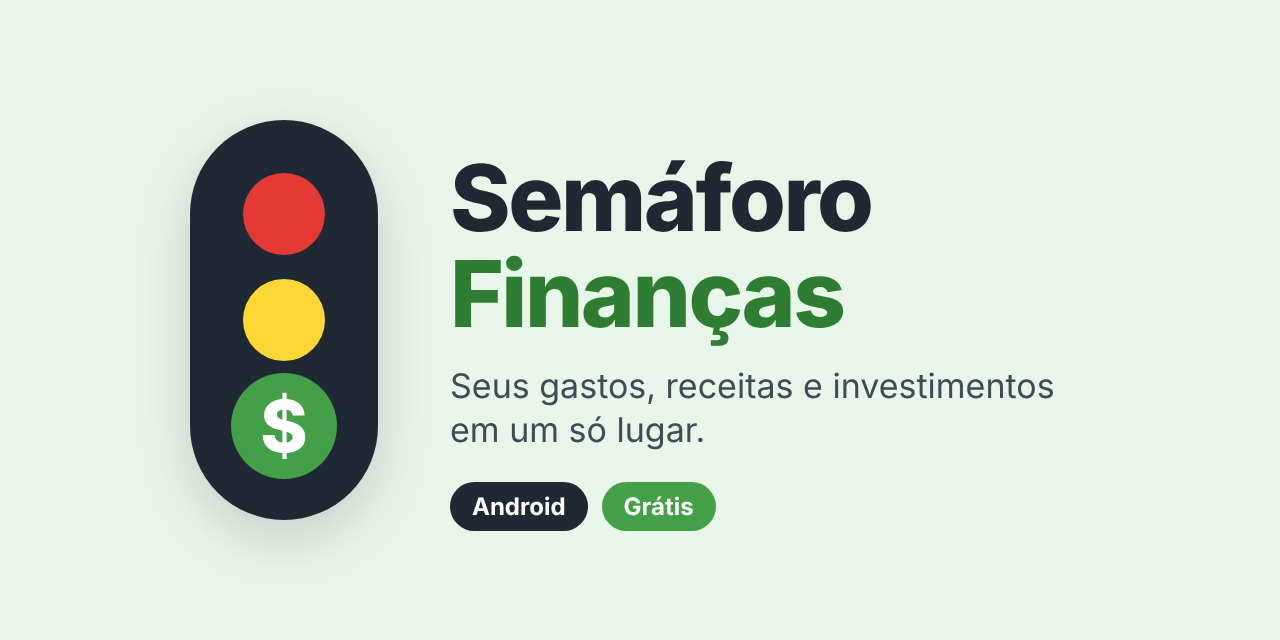
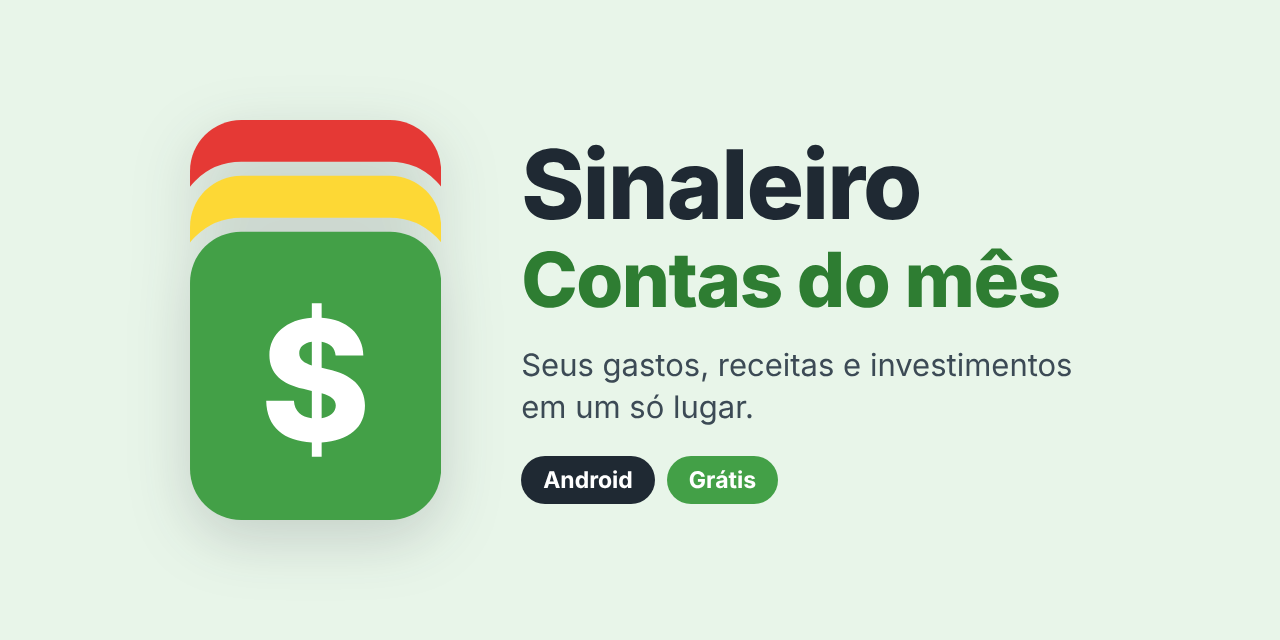
docs: rebrand to Sinaleiro

Changed region(s): [[0.125, 0.1875, 0.8438, 0.8438]]

diff --git a/README.md b/README.md
@@ -1,24 +1,26 @@
 <p align="center">
-  <img src="banner.png" alt="Semáforo Finanças: seus gastos, receitas e investimentos em um só lugar" width="100%" />
+  <img src="banner.png" alt="Sinaleiro, contas do mês: seus gastos, receitas e investimentos em um só lugar" width="100%" />
 </p>
 
 <p align="center">
-  <a href="https://github.com/semaforofinancas/semaforo-download/releases/latest"><img src="https://img.shields.io/github/v/release/semaforofinancas/semaforo-download?label=vers%C3%A3o&color=43A047" alt="Versão mais recente" /></a>
-  <a href="https://github.com/semaforofinancas/semaforo-download/releases"><img src="https://img.shields.io/github/downloads/semaforofinancas/semaforo-download/total?label=downloads&color=1F2933" alt="Downloads" /></a>
+  <a href="https://github.com/sinaleiro-contas/sinaleiro-download/releases/latest"><img src="https://img.shields.io/github/v/release/sinaleiro-contas/sinaleiro-download?label=vers%C3%A3o&color=43A047" alt="Versão mais recente" /></a>
+  <a href="https://github.com/sinaleiro-contas/sinaleiro-download/releases"><img src="https://img.shields.io/github/downloads/sinaleiro-contas/sinaleiro-download/total?label=downloads&color=1F2933" alt="Downloads" /></a>
   <img src="https://img.shields.io/badge/Android-7%2B-3DDC84?logo=android&logoColor=white" alt="Android 7 ou mais novo" />
 </p>
 
 <h3 align="center">
-  <a href="https://semaforofinancas.web.app/baixar">📲 Baixar o Semáforo Finanças para Android</a>
+  <a href="https://sinaleiro-contas.web.app/baixar">📲 Baixar o Sinaleiro para Android</a>
 </h3>
 
 <p align="center">
-  <a href="https://semaforofinancas.web.app">Conheça o app e teste o semáforo no site</a>
+  <a href="https://sinaleiro-contas.web.app">Conheça o app e teste o semáforo no site</a>
 </p>
 
 ---
 
-O **Semáforo Finanças** é um app de finanças pessoais que funciona como uma planilha mensal: você registra o que entra e o que sai, e a cor do mês mostra se as suas contas estão em dia.
+> **O Semáforo Finanças agora se chama Sinaleiro.** Se você usa o app antigo, ele mesmo avisa e instala o Sinaleiro. Depois, abra o Sinaleiro, entre com a mesma conta (os seus dados continuam lá) e desinstale o Semáforo Finanças.
+
+O **Sinaleiro** é um app de finanças pessoais que funciona como uma planilha mensal: você registra o que entra e o que sai, e a cor do mês mostra se as suas contas estão em dia.
 
 Sem integração com banco: você lança tudo manualmente e o app nunca pede senha de banco.
 
@@ -50,23 +52,23 @@ Sem integração com banco: você lança tudo manualmente e o app nunca pede sen
 
 ## Como instalar
 
-1. No celular, abra **[semaforofinancas.web.app/baixar](https://semaforofinancas.web.app/baixar)** e toque em **Baixar para Android**.
+1. No celular, abra **[sinaleiro-contas.web.app/baixar](https://sinaleiro-contas.web.app/baixar)** e toque em **Baixar para Android**.
 2. Abra o arquivo baixado.
 3. Se o celular pedir, permita instalar apps desta origem.
 4. Toque em **Instalar**. Se o Play Protect avisar, toque em **Mais detalhes** → **Instalar mesmo assim**. O aviso aparece porque o app não vem da Play Store.
 
-**Para atualizar:** quando houver versão nova, o app avisa ao abrir. Toque em **Atualizar**: o app baixa a versão nova e abre a instalação do Android. Na primeira vez, o Android pede para permitir que o Semáforo Finanças instale apps. Os seus dados continuam na sua conta. Na versão 1.4.0 ou anterior, baixe pela página e instale por cima, sem desinstalar.
+**Para atualizar:** quando houver versão nova, o app avisa ao abrir. Toque em **Atualizar**: o app baixa a versão nova e abre a instalação do Android. Na primeira vez, o Android pede para permitir que o Sinaleiro instale apps. Os seus dados continuam na sua conta. Na versão 1.4.0 ou anterior, baixe pela página e instale por cima, sem desinstalar.
 
 **Requisitos:** Android 7 ou mais novo, processador de 64 bits e serviços do Google (Play Store).
 
 ## Segurança
 
-Baixe o Semáforo Finanças somente pela [página oficial](https://semaforofinancas.web.app/baixar) ou pelas [releases deste repositório](https://github.com/semaforofinancas/semaforo-download/releases).
+Baixe o Sinaleiro somente pela [página oficial](https://sinaleiro-contas.web.app/baixar) ou pelas [releases deste repositório](https://github.com/sinaleiro-contas/sinaleiro-download/releases).
 
 Todas as versões são assinadas com o mesmo certificado. Para conferir, use o `apksigner` do Android SDK:
 
 ```bash
-apksigner verify --print-certs semaforo.apk
+apksigner verify --print-certs sinaleiro.apk
 ```
 
 O resultado precisa mostrar este SHA-256:
@@ -78,11 +80,11 @@ O resultado precisa mostrar este SHA-256:
 ## Privacidade
 
 - Cada pessoa acessa só os próprios dados.
-- Você pode excluir a conta e todos os dados pelo próprio app, ou seguindo [estas instruções](https://semaforofinancas.web.app/excluir-conta).
+- Você pode excluir a conta e todos os dados pelo próprio app, ou seguindo [estas instruções](https://sinaleiro-contas.web.app/excluir-conta).
 
 ## Licença
 
-O Semáforo Finanças é gratuito para uso pessoal. Os arquivos de instalação não podem ser redistribuídos em outros sites ou lojas, nem modificados. Veja os termos completos em [LICENSE](LICENSE).
+O Sinaleiro é gratuito para uso pessoal. Os arquivos de instalação não podem ser redistribuídos em outros sites ou lojas, nem modificados. Veja os termos completos em [LICENSE](LICENSE).
 
 ## Contato
 
